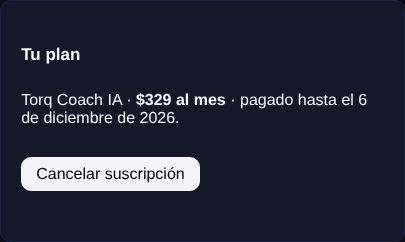
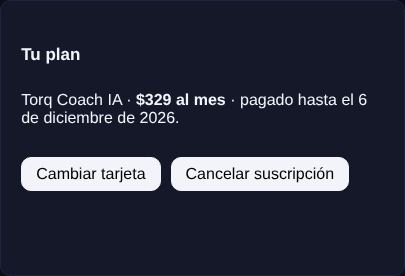
Perfil: «Cambiar tarjeta» con la suscripción al corriente (abre el portal de Stripe)
Claude-Session: https://claude.ai/code/session_01PEamorFJQWTATM98QwwjDk

diff --git a/src/ui/pricing.ts b/src/ui/pricing.ts
@@ -113,7 +113,8 @@ export function subscriptionPanelHtml(b: BillingStatus | null = appState.billing
       <div class="row-actions"><button class="btn-light" data-subscribe>Volver a suscribirme · ${fmtMxn(s.price_mxn)} al mes</button></div><p class="hint" data-subscribe-status aria-live="polite"></p>`;
   else if (b.reason === 'subscription' && s)
     body = `<p>Torq Coach IA · <strong>${fmtMxn(s.price_mxn)} al mes</strong>${s.paid_until ? ` · pagado hasta el ${fmtDate(s.paid_until)}` : ''}.</p>
-      <div class="row-actions"><button class="btn-light" id="subscription-cancel">Cancelar suscripción</button></div>
+      <div class="row-actions"><button class="btn-light" id="billing-portal">Cambiar tarjeta</button><button class="btn-light" id="subscription-cancel">Cancelar suscripción</button></div>
+      <p class="hint" id="billing-portal-status" aria-live="polite"></p>
       <p class="hint" id="subscription-cancel-status" aria-live="polite"></p>`;
   else return `<div data-pricing-host>${pricingPanelHtml(b)}</div>`;
   return `<div class="panel perfil-panel" data-pricing><h2 class="perfil-h2">Tu plan</h2>${body}</div>`;

diff --git a/e2e/nube/06-cobro-y-registro.spec.ts b/e2e/nube/06-cobro-y-registro.spec.ts
@@ -105,6 +105,8 @@ test.describe('Precio y suscripción', () => {
     await expect(page).toHaveURL(/#\/profile/);
     await expect(page.locator('.billing-toast')).toContainText('ya tienes Torq Coach IA');
     await expect(page.locator('.perfil-panel[data-pricing]')).toContainText('$329 al mes');
+    // con la suscripción al corriente también puede cambiar de tarjeta (portal de Stripe)
+    await expect(page.locator('.perfil-panel[data-pricing] #billing-portal')).toHaveText('Cambiar tarjeta');
     await ux.shot('72-perfil-suscrito', page.locator('.perfil-panel[data-pricing]'));
     // cancelar: dos pasos y explica qué pasa
     await ux.click(page.locator('#subscription-cancel'), 'Cancelar suscripción');
